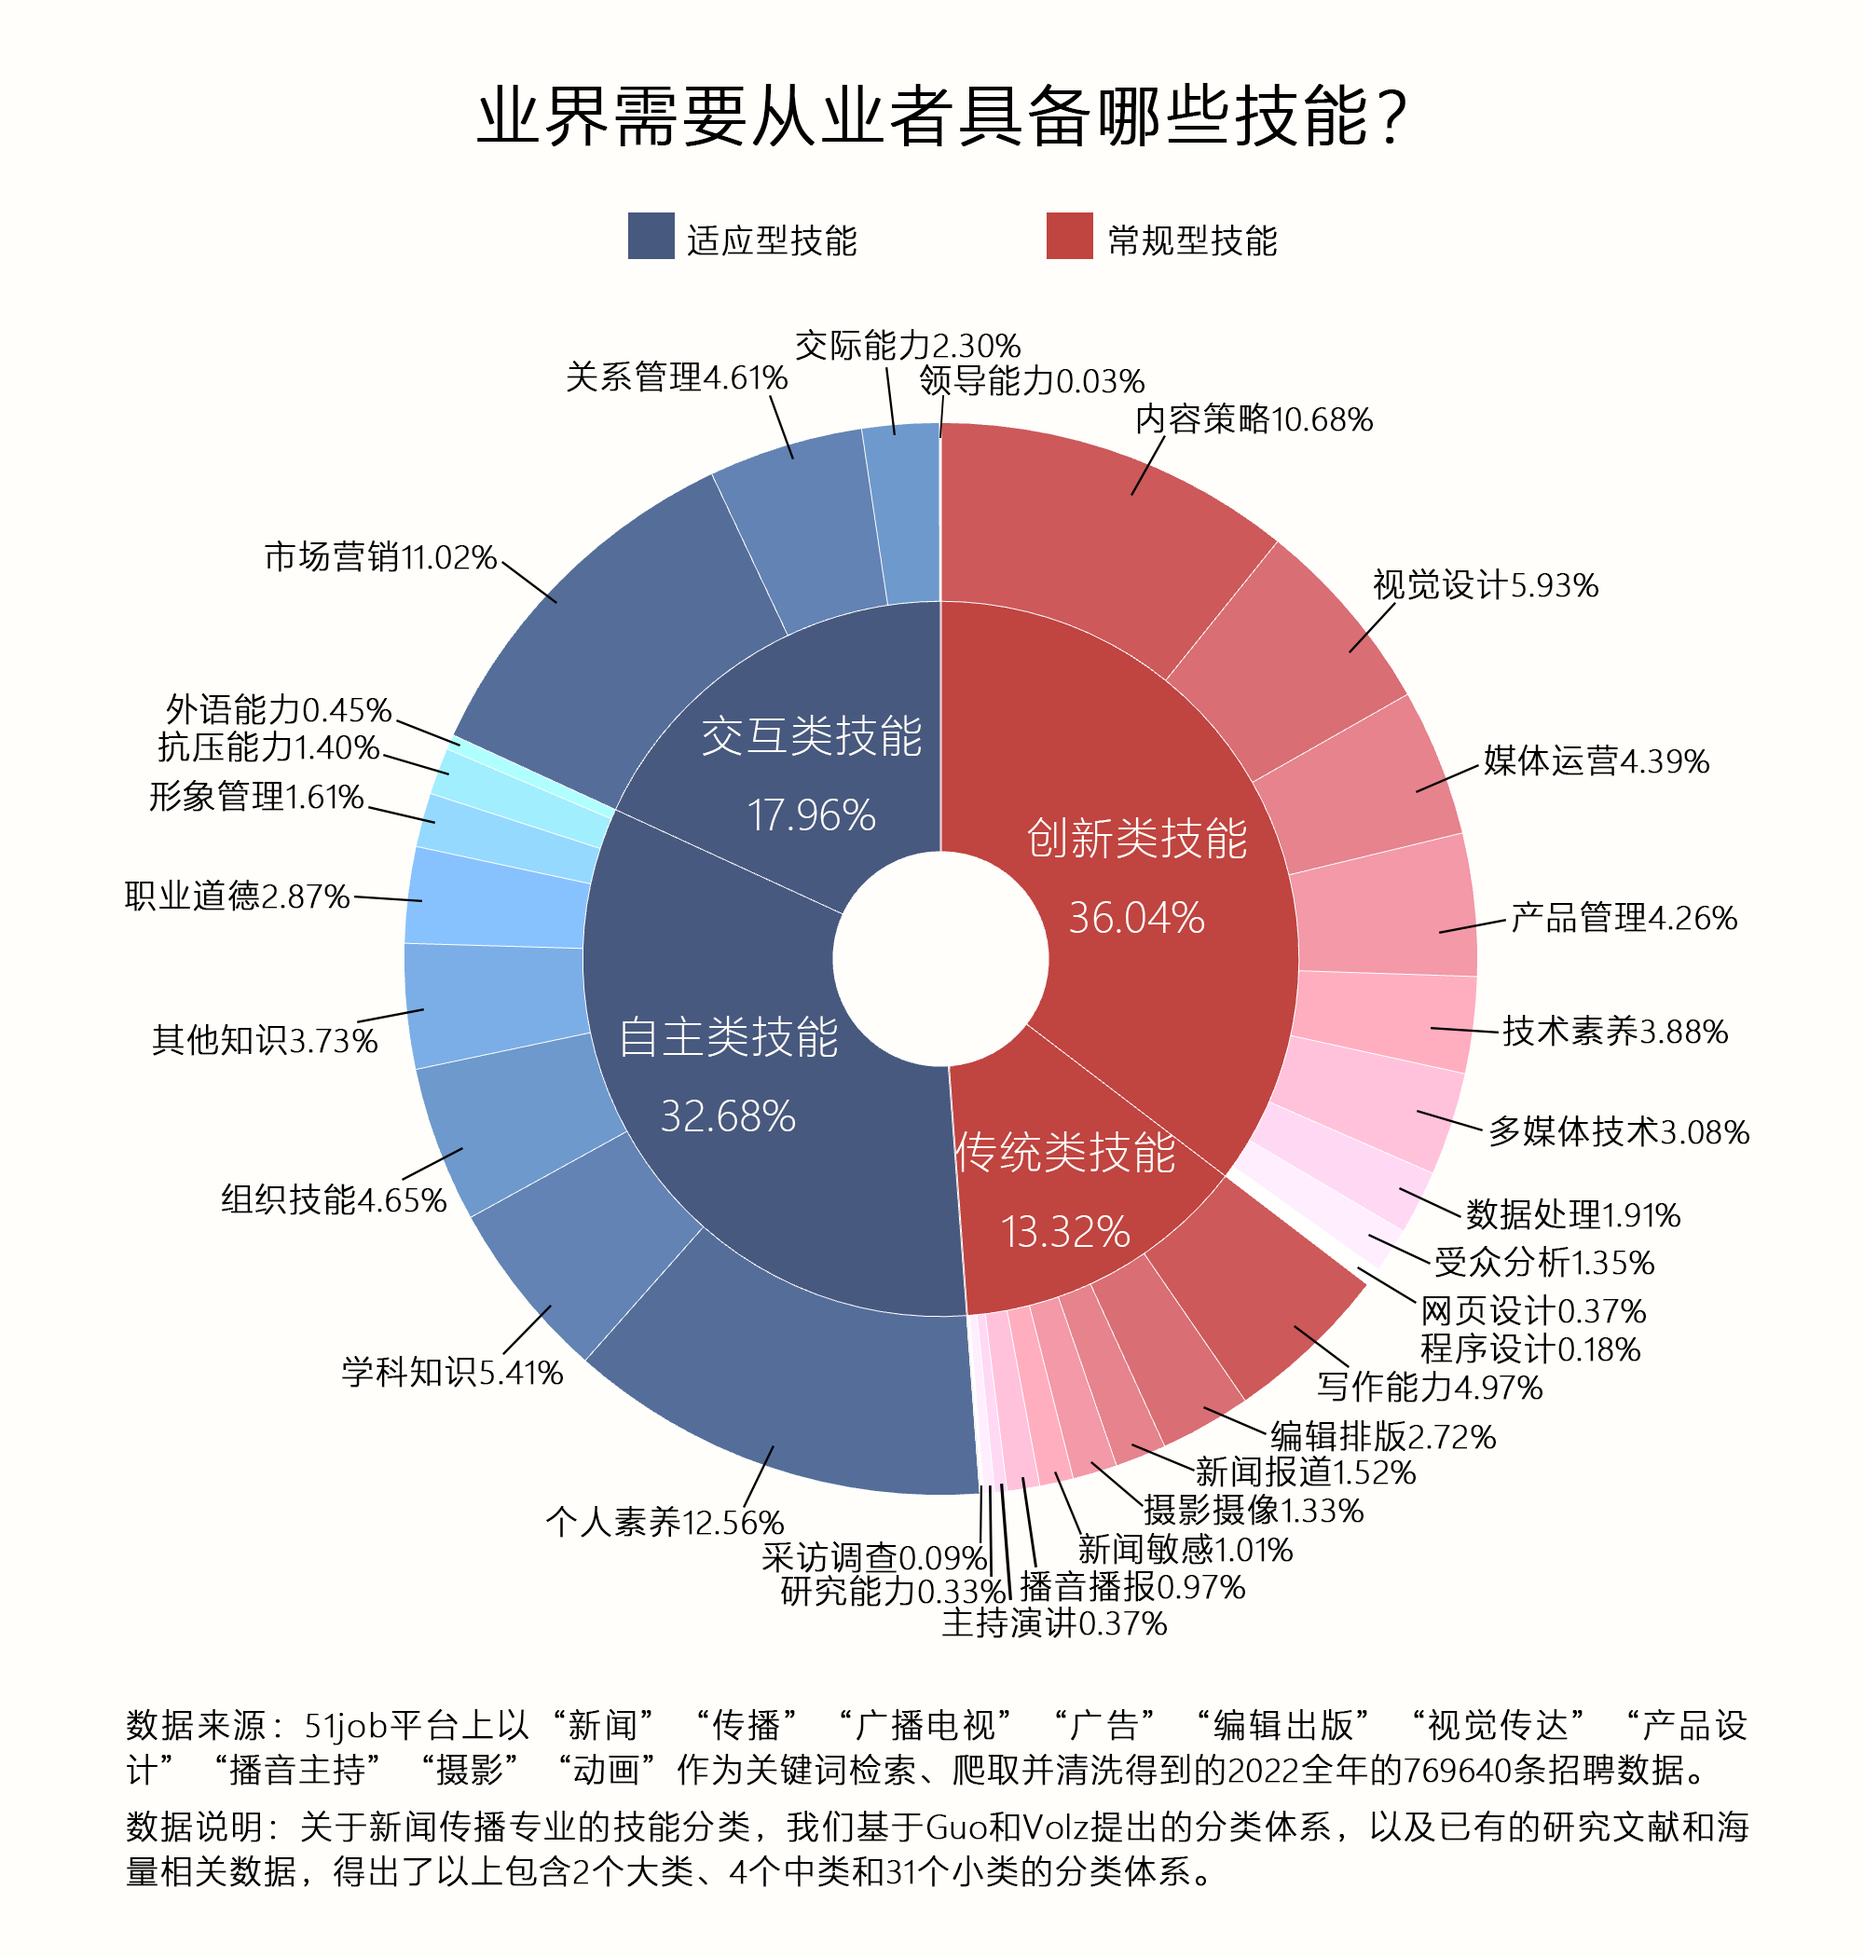
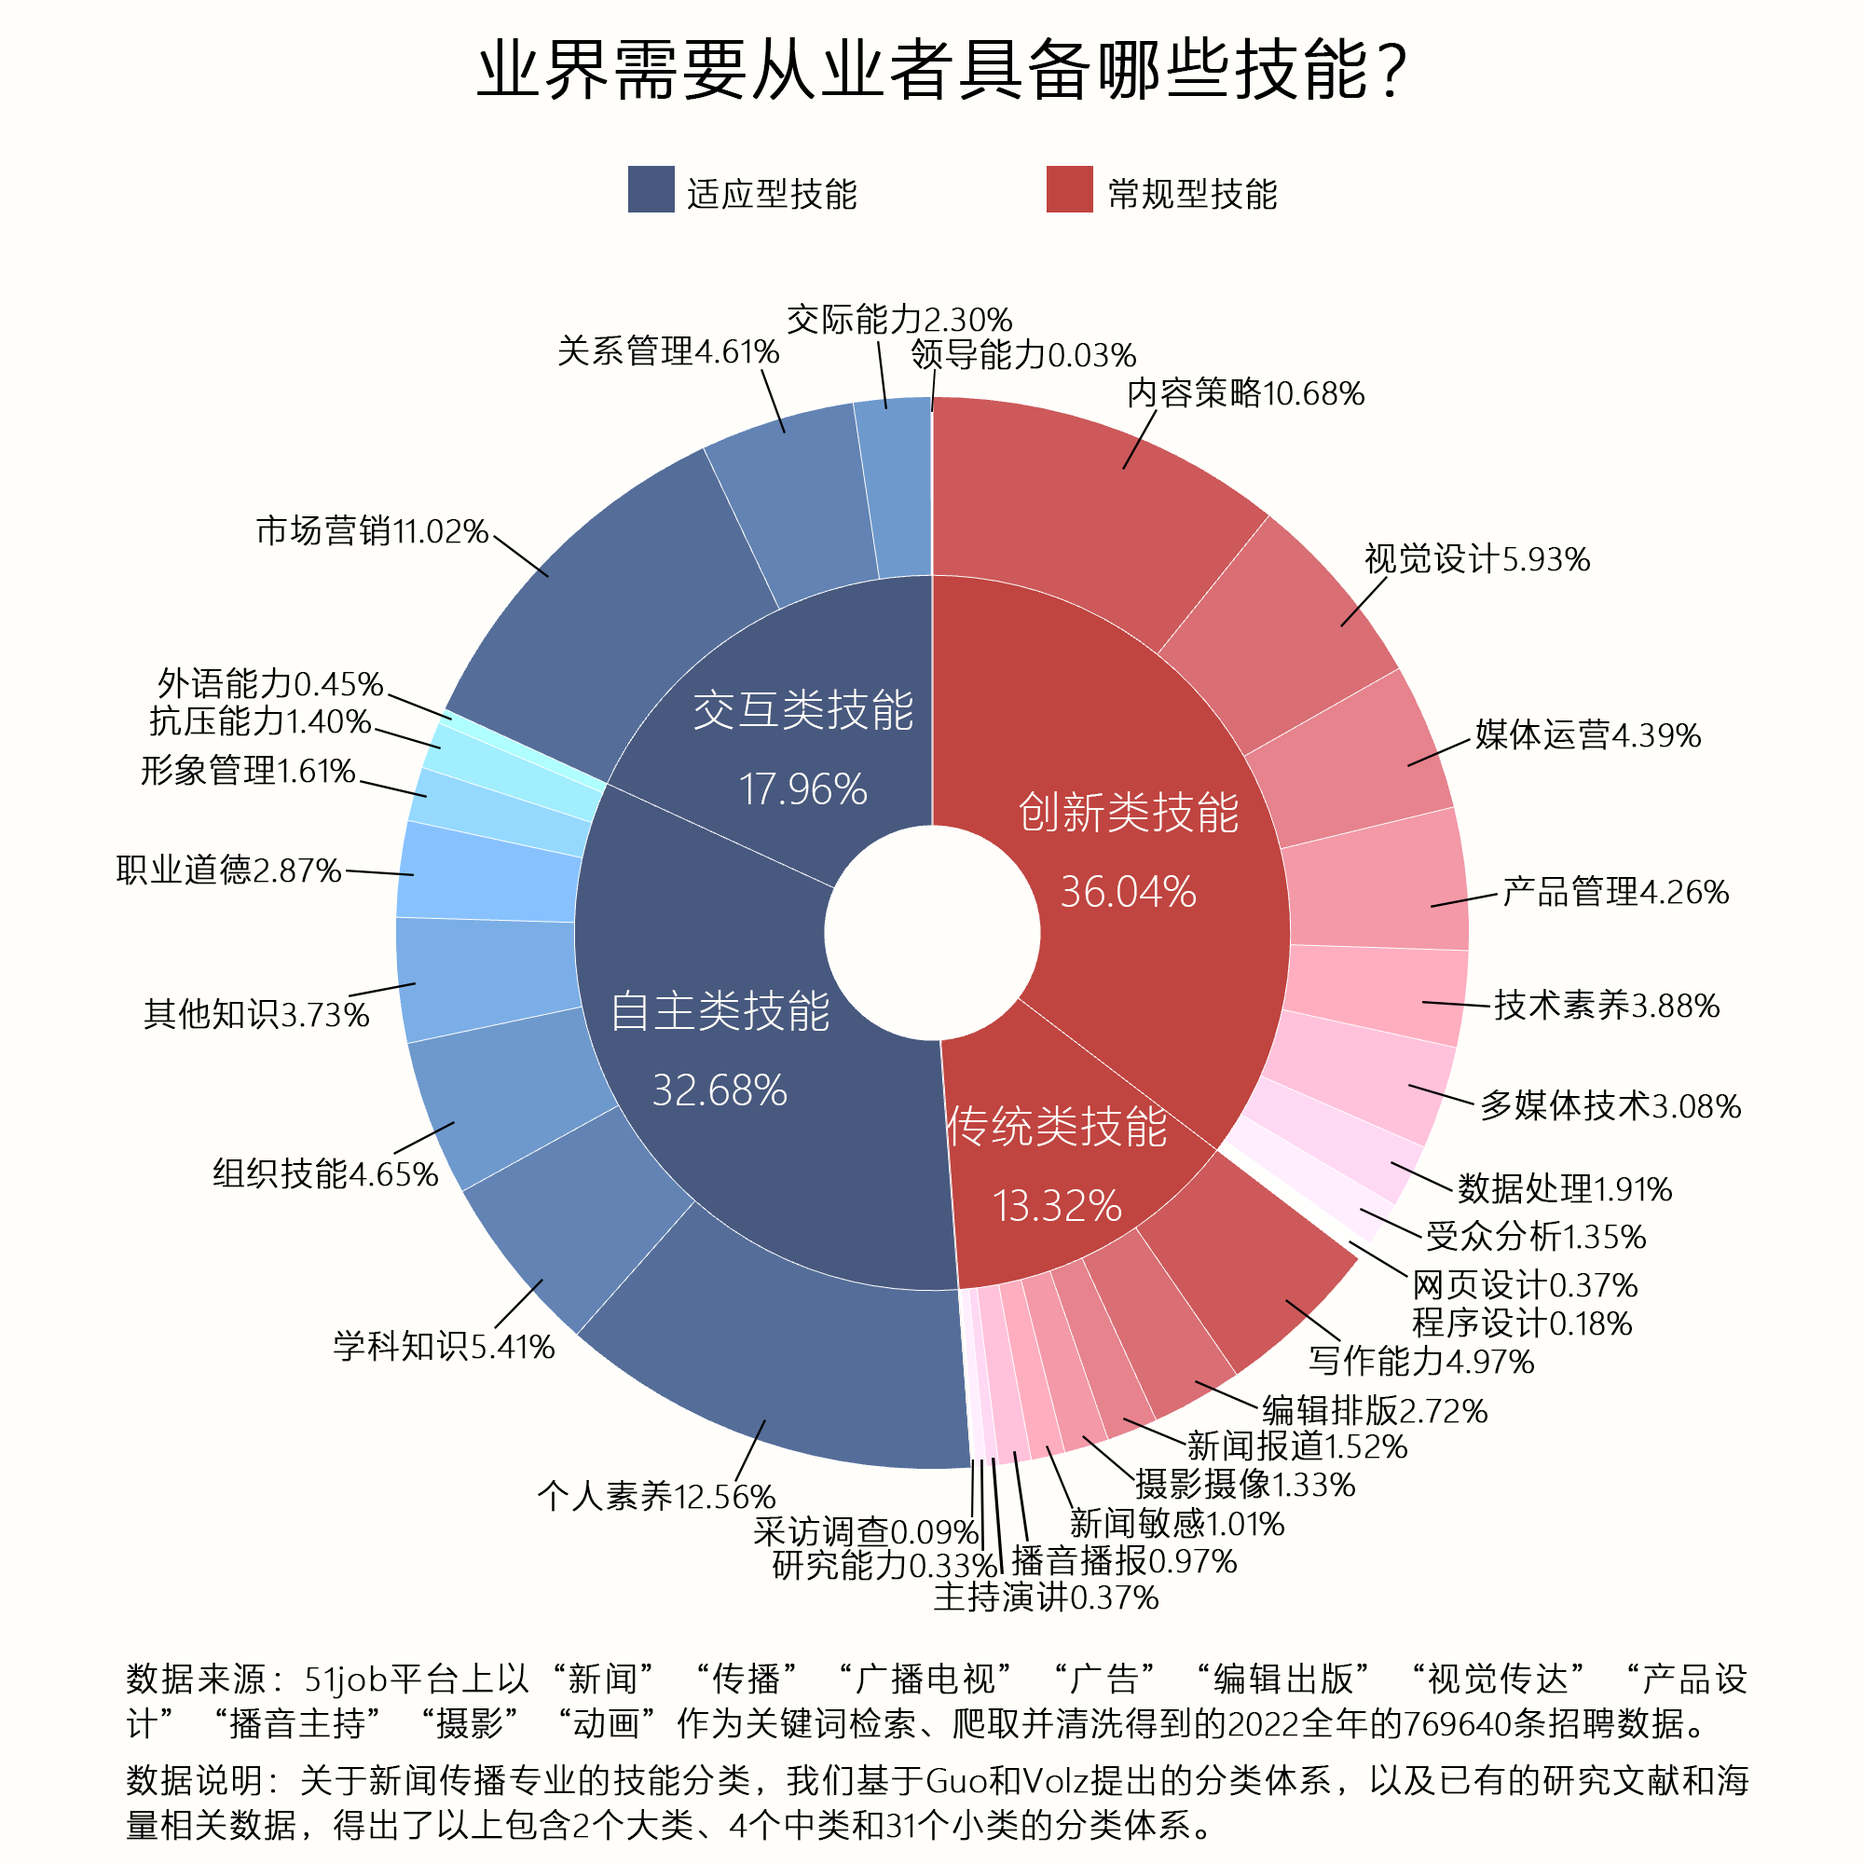
feat: 完成鼠标悬停交互

diff --git a/index.html b/index.html
@@ -8,7 +8,6 @@
     <link rel="stylesheet" href="css/style.css">
     <link rel="shortcut icon" href="img/logo.svg">
 <!--    如有logo-->
-<!--    <script src="js/ScrollMagic.min.js"></script>-->
     <script src="js/always.js"></script>
     <script src="https://unpkg.com/d3@5.9.1/dist/d3.min.js"></script>
     <script src="js/scrollama.min.js"></script>
@@ -240,6 +239,10 @@
 
     <section id="scrolld" class="scroll">
         <figure id="demand">
+            <img src="img/demand1.png" alt="" class="fake">
+            <img src="img/demand2.png" alt="" class="fake">
+            <img src="img/demand3.png" alt="" class="fake">
+            <img src="img/demand4.png" alt="" class="fake">
 <!--            <div style="background-image: url('img/demand1.png')" class="fake"></div>-->
 <!--            <div style="background-image: url('img/demand2.png')" class="fake"></div>-->
 <!--            <div style="background-image: url('img/demand3.png')" class="fake"></div>-->
@@ -360,16 +363,84 @@
             <p class="text-part">如下图所示，我们将新闻传播从业者的技能分为 2 个大类、 4 个中类和 31 个小类。
                 <span class="highlight">在技能大类层级，常规型技能和适应型技能分别体现“硬实力”，后者体现“软实力”，</span>从数据上看，两者在人才技能结构中的占比势均力敌，新闻传播类就业市场既强调从业者“硬核”的专业能力，同时也需要他们具备相当的个人素养。</p>
             <p class="text-part">在技能中类层级，传统类技能、创新类技能、个体类技能和交互类技能分别占比 13.32%、36.04%、32.68%、17.96%。</p>
-            <div class="twi-column twi-column82">
-                <div>
+            <div class="twi-column twi-column82 pieBox">
+                <div id="pieDiv">
                     <p class="caption" id="notice">▼ 鼠标悬停查看对应技能描述</p>
-                    <img src="img/pie.png" alt="就业市场中的人才技能结构需求" class="image" id="pie">
+                    <div>
+                        <img src="img/pie.png" alt="就业市场中的人才技能结构需求" class="image" id="pie">
+                    </div>
                 </div>
                 <div>
                     <p class="text-part">“硬实力”中的创新类技能在技能结构中的占比是传统类技能的近三倍，不可否认，传媒行业“采写编评”等“传统手艺”固然重要，但技术手段快速更迭，媒介形态日新月异，新闻传播的业态和招聘人才的需求也发生着深刻的变化；而在“软实力”中，个体类技能的需求近乎于交互类技能需求的两倍，因此，新闻传播人才除了需要拥有良好的沟通交流能力以外，更需强调自身的知识储备。</p>
                 </div>
             </div>
+<!--     鼠标悬停效果：覆盖一个一样大的图，色块全部设为透明       -->
+            <script>
+                const img=document.getElementById("pie")
+                const width = img.clientWidth
+                const outerR = 0.2875 * width
+                const innerR = 0.1925 * width
+                const svg = d3.select("#pieDiv").append("svg").attr("id", "pieSvg")
+                    .attr('width', width)
+                    .attr("height", width)
+                    .attr("fill", "#000000")
 
+                const arcPath = d3.arc()
+                    .innerRadius(innerR)
+                    .outerRadius(outerR);
+                console.log(arcPath)
+
+                async function drawPie(url) {
+                    const data = await d3.csv(url);
+                    const arcs = d3.pie().sort((a, b) => d3.ascending(parseInt(a.index), parseInt(b.index))).value((d) => parseFloat(d.percentage.split("%")[0])).startAngle(0)(data);
+
+                    svg.selectAll("path")
+                        .data(arcs)
+                        .enter()
+                        .append("path")
+                        .attr("d",function(d){
+                            return arcPath(d); })
+                        .attr("transform", `translate(${width/2}, ${width/2})`)
+                        .attr("fill", "rgba(0,0,0,0)")
+                        // .attr("stroke-width", '0.5px')
+                        // .attr("stroke", "white")
+                        // .attr("opacity", 0)
+                        .on("mouseover", function(d){
+                            d3.selectAll(".ability-decription").remove();
+                            const description = d.data.description;
+                            const index = d.data.index;
+                            let x = 0.1 * width;
+                            let color = "#48597f";
+                            if(index<20){
+                                x = 0.7 * width;
+                                color = "#c04440";
+                            }
+                            const g = svg.append("g")
+                                        .attr("id", `ability-description${index}`)
+                                        .attr("class", "ability-description");
+                            g.append("text")
+                            .text(description)
+                            .attr("text-anchor", "center")
+                            .attr("text-align", "center")
+                            .attr("x", x)
+                            .attr("y", 0.15*width)
+                            .transition()
+                            .duration(500)
+                            .attr("fill", color)
+                            g.append("text")
+                            .text(d.data.percentage)
+                            .attr("x", x)
+                            .attr("y", 0.15*width+20)
+                        })
+                        .on("mouseout", function (d){
+                            d3.select(`#ability-description${d.data.index}`)
+                                .attr("fill", "none")
+                                .remove();
+                        });
+                }
+
+                drawPie("data/tech-abilities.csv");
+            </script>
 
             <p class="text-part">创新类技能中的内容策略，个体类技能中的个人素养和交互类技能中的市场营销在人才技能结构中占比明显高于其他技能。我们分别将其所在的招聘语句进行了统计和呈现，将业界的技能期待具体化。</p>
 

diff --git a/css/style.css b/css/style.css
@@ -552,3 +552,39 @@ figure {
     padding-bottom: 5%;
     margin: 0;
 }
+
+.pieBox{
+    height: 50vw;
+}
+
+#pieDiv>div{
+    display: flex;
+    flex-direction: column;
+
+
+}
+#interaction{
+    width: 46vw;
+    transform: translate(0, -100%);
+}
+
+#pie{
+    width: 100%;
+    z-index: 0;
+}
+
+#pieSvg{
+    z-index: 1;
+    transform: translateY(-100%);
+}
+
+.ability-description{
+    font-size: 16px;
+    font-weight: 700;
+    line-height: 40px;
+}
+.ability-description>*:last-child{
+    font-size: 16px;
+    font-weight: 400;
+    line-height: 40px;
+}
